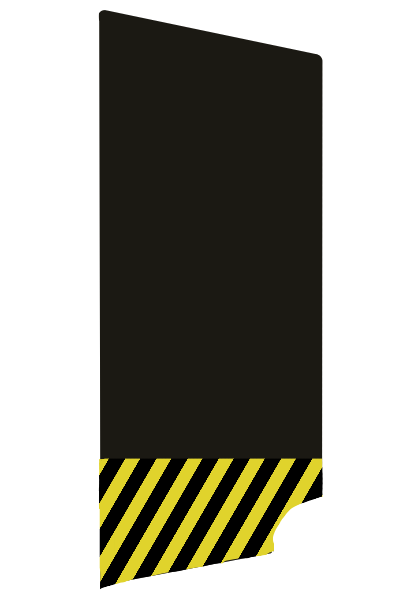
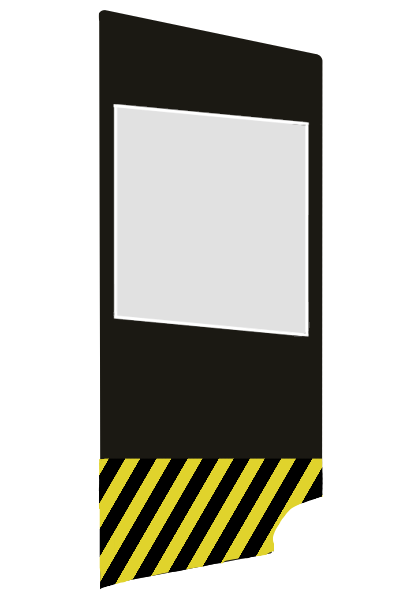
Nestihlo se vše, ale je tam logika celé hry.

Changed region(s): [[0.27, 0.15, 0.78, 0.57]]

diff --git a/FNASPS.py b/FNASPS.py
@@ -1,4 +1,4 @@
-import sys, pygame, os, random, time, math, anima as e
+import sys, pygame,anima as e
 from pygame import *
 
 def terminace():
@@ -9,8 +9,6 @@ def KmFnce():
     KmLt = []
     tett = []
     for t in xList:
-        #print(str(xList.index(t)))
-        #w = textik(str(xList.index(t)), mensi_text_font, (255,255,255), t, t)
         #Pro lokaci
         if xList.index(t) % 2 == 0:
             r = t
@@ -22,9 +20,6 @@ def KmFnce():
             r = t
             tett.append(r)
     return KmLt, tett
-
-def flip(img,boolean=True):
-    return pygame.transform.flip(img,boolean,False)
 
 hodiny = pygame.time.Clock()
 pygame.init()
@@ -68,17 +63,32 @@ Ckamka8 = pygame.image.load('MainMenu/K8.png')
 Ckamka9 = pygame.image.load('MainMenu/K9.png')
 Ckamka = [Ckamka0,Ckamka1,Ckamka2,Ckamka3,Ckamka4,Ckamka5,Ckamka6,Ckamka7,Ckamka8,Ckamka9]
 
-bb = ["", "", "", "", "", 5, 6, 7, 8, ""]
-kk = [0, 1, 2, "", 4, 5, 6, "", "", ""]
+Br9 = pygame.image.load('MainMenu/hwBr.png')
+Br5 = pygame.image.load('MainMenu/hwBr.png')
+Br8 = pygame.image.load('MainMenu/hwBr.png')
+Br7 = pygame.image.load('MainMenu/hwBr.png')
+Br6 = pygame.image.load('MainMenu/hwBr.png')
+
+BrO = pygame.image.load('MainMenu/SvBr.png')
+HoO = pygame.image.load('MainMenu/SvHo.png')
+FiO = pygame.image.load('MainMenu/SvFi.png')
+#3 5 2
+#8 1 7 2
+#7 5 3 5 2 6
+bb = ["", "", "", "", "", Br5, Br6, Br7, Br8, ""]
+hh = ["", "", "", "", "", "", "", "", "", ""]
 jj = ["", "", "", "", "", "", "", "", "", ""]
 ff = ["", "", "", "", "", "", "", "", "", ""]
-
-
-Br9 = pygame.image.load('MainMenu/pg.png')
-Br5 = pygame.image.load('MainMenu/pg.png')
-Br8 = pygame.image.load('MainMenu/pg.png')
-Br7 = pygame.image.load('MainMenu/pg.png')
-Br6 = pygame.image.load('MainMenu/pg.png')
+balding = e.animatronik([9,5,8,7,6,20])
+ho = e.animatronik([7,5,3,5,2,6,20])
+fl = e.animatronik([8,1,7,2,20])
+bjump = 0
+hj = 0
+fj = 0
+jj = 0
+bald = 0
+fq = 0
+hq = 0
 
 BtKm = pygame.image.load('MainMenu/KmBt.png')
 #screen.blit(pygame.transform.scale(pic, (500, 500)), (0, 0))
@@ -94,7 +104,10 @@ pygame.display.set_icon(Ikonka)
 
 KameStat = pygame.image.load('MainMenu/static.gif')
 KameStat = pygame.transform.scale(KameStat, (OknoSirka, OknoVyska))
+Sn = pygame.transform.scale(Sn,  (810, 1000))
 
+
+kill = ""
 #Kolikátá noc
 PNoc = 0
 #Pro správné počítaní délky noci
@@ -107,6 +120,7 @@ IntermiseBool = False
 GameBool = False
 #Bude vráceno animatroniky
 GameOver = False
+Lose = False
 Win = False
 sipecky_X = 120
 sipecky_Y = 630
@@ -141,9 +155,6 @@ while True:
             else:
                 sipecky_Y = 648
             
-            #print(my)
-            #B1 = pygame.draw.rect(screen, (255,0,0), [130, 620, 500, 100], -1)
-            #B2 = pygame.draw.rect(screen, (255,0,0), [130, 730, 500, 100], -1)
             B1 = Rect(130, 620, 500, 100)
             B2 = Rect(130, 730, 500, 100)
             if B1.collidepoint((mx, my)):
@@ -177,7 +188,7 @@ while True:
                         else:
                             stage_sipecky = 0                       
             
-            screen.blit(Sn, (OknoSirka / 2,0))
+            screen.blit(Sn, (OknoSirka - 780,0))
             screen.blit(Sw, (0,0))
             screen.blit(Sq, (0,0))
             
@@ -195,7 +206,7 @@ while True:
             textik("V 0.01", text_font, (255,255,255), 60, OknoVyska - 100)
             textik("© Patron Service, Poland", text_font, (255,255,255), OknoSirka - 650, OknoVyska - 100)  
             pygame.display.update()
-            hodiny.tick(60)
+            hodiny.tick(40)
 
 
     # -------- Noviny na začítku hry -------- #
@@ -235,7 +246,7 @@ while True:
                             PNoc = 1
 
                 pygame.display.update()
-                hodiny.tick(60)
+                hodiny.tick(40)
         else:
             IntermiseBool = False
             GameBool = True 
@@ -257,7 +268,6 @@ while True:
         BoolPG = True
         klik = False
     
-        jumpsc = 0
         BoolSWKamera = False
         #Logika rozmístění a přepínání kamer
         MPoz = OknoVyska - 540 #530
@@ -276,16 +286,13 @@ while True:
         zdroj = 1
         nace = 0
         #9 5 8 7 6
-        balding = e.animatronik([9,5,8,7,6,0])
-        bald = 0
+
         #hugerCat = e.animatronik(11, 11, 8000,False,)
         #flaska = e.animatronik(  11, 11, 8000,False,)
         #zakar = e.animatronik(   11, 11, 8000,False,)
         while running:
             if GameOver:
-                Win = True
-                running = False
-                GameBool = False
+                terminace()
                 
             rect = Rect(mx, my, 1, 1)
             mx, my = pygame.mouse.get_pos()
@@ -308,16 +315,49 @@ while True:
             else:
                 xt = ""
                 
+            
+                
             if nace < Vteriny:
                 Proc = round(Proc - odecet * zdroj, 1)
                 nace += 1
+                bald += 1
+                hq += 1
+                fq += 1
+                bjump, bald = balding.pohyb(bald, BoolRD, bjump)
+                hj, hq = ho.pohyb(hq, BoolRD, hj)
+                fj, fq = fl.pohyb(fq, BoolLD, fj)
+                
             #Aby jsme nešli až moc daleko s power drainingem
             zdroj = 1
             #Rect/hitboxy kamery (mimo kvůli vypínání a zapínání kamery
             KM = Rect(350, OknoVyska - 140, OknoSirka-700, 100)
             #KM = pygame.draw.rect(screen, (0,0,255), [350, OknoVyska - 100, OknoSirka-700, 100], 4)
+            
+            if bjump > 90:
+                kill = "Brian"
+                Lose = True
+                running = False
+                GameBool = False
+            elif hj > 90:
+                kill = "Honza"
+                Lose = True
+                running = False
+                GameBool = False
+            elif fj > 90:
+                kill = "Filip"
+                Lose = True
+                running = False
+                GameBool = False
+            elif hj > 90:
+                kill = "Zakar"
+                Lose = True
+                running = False
+                GameBool = False
+            
+                
             if not BoolKm:
                 screen.blit(OF, (dX - 210,0))
+                                    
                 #Rect/hitboxy tlačítek
                 LD = Rect(dX + -76, 330, 100, 120)
                 LL = Rect(dX + -76, 480, 100, 120)
@@ -331,9 +371,9 @@ while True:
                 PS = Rect(OknoSirka - 200, 0, 200, OknoVyska)
             
                 if PS.collidepoint((mx, my)) and dX >= -200:
-                    dX -= 10
+                    dX -= 20
                 elif LS.collidepoint((mx, my)) and dX <= 200:
-                    dX += 10
+                    dX += 20
                     
                 #Dalo by se dát and místo více if, né když stačí ale ověřit jednu proměnnou
                 if klik:
@@ -348,27 +388,33 @@ while True:
                 
                 if BoolLL == True:
                     screen.blit(Sl, (dX - 52, 216))
-                    #SvetloL = pygame.draw.rect(screen, (255,255,255), [dX + 100, 200, 200, 600], 0)
-                    zdroj += 1
-                if BoolLD == True:
-                    screen.blit(Sdl, (dX - 52, 216))
-                    zdroj += 1
                 if BoolRL == True:
                     screen.blit(Sr, (dX + OknoSirka - 416, 230))
-                    #SvetloR = pygame.draw.rect(screen, (255,255,255), [dX + OknoSirka - 250, 200, 200, 600], 0)
-                    zdroj += 1
+
+                if bjump == 20 and BoolRL:
+                    screen.blit(BrO, (dX + OknoSirka - 416, 230))
+                if hj == 20 and BoolRL:
+                    screen.blit(HoO, (dX + OknoSirka - 416, 230))
+                if fj == 20 and BoolLL:
+                    screen.blit(FiO, (dX - 52, 216))
+                
+                
                 if BoolRD == True:
-                    screen.blit(Sdr, (dX + OknoSirka - 416, 230))
-                    zdroj += 1
-                    
-                    
+                    screen.blit(Sdr, (dX + OknoSirka - 416, 230)) 
+                if BoolLD == True:
+                    screen.blit(Sdl, (dX - 52, 216))
+
+    
             # -------- Na kameře -------- #
             else:
                 #Vykreslení záznamu kamery live WOWOWOWOWO
+                zdroj += 1
                 screen.blit(Ckamka[kamka], (0,0))
                 pygame.draw.rect(screen, (255,255,255), [40, 40, OknoSirka - 60, OknoVyska - 60], 2)
-              #  if Br + jmpsc = 
-                screen.blit(Sw, (0,0))
+                
+                
+                if bjump == kamka:
+                    screen.blit(bb[kamka], (OknoSirka / 2,OknoVyska / 2))
                 
                 if BoolPG:
                     #Phone Guy
@@ -378,11 +424,6 @@ while True:
                         BoolPG = False
                     #1680
                 
-                
-                
-                #################
-                #if jumpsc == kamka:
-                #    screen.blit(bb[jumpsc], (0,0))
                        
                 if (Vteriny - PrepMaediator) < 0.5:
                     screen.blit(KameStat, (0,0))
@@ -391,7 +432,7 @@ while True:
                     for r in KmLt:
                         if rect.colliderect(r) and klik and BoolSWKamera == False and kamka != KmLt.index(r):
                             kamka = KmLt.index(r)
-                            print(kamka)
+                            #print(kamka)
                             #Ckamka = Ckamka + str(kamka)
                             PrepMaediator = Vteriny
                         elif kamka == KmLt.index(r):
@@ -420,13 +461,21 @@ while True:
                 else:
                     Sw = St
 
-                
+        
+            if BoolRD == True:
+                zdroj += 1            
+            if BoolLD == True:
+                zdroj += 1
+            if BoolLL == True:
+                zdroj += 1            
+            if BoolRL == True:
+                zdroj += 1   
             screen.blit(BtKm, (350, OknoVyska - 140))
             textik(str(Rano) + "AM", vetsi_text_font, (255,255,255), OknoSirka - 250, 40)
             textik(str(Minu) + ":" + xt + str(strtVteriny), mensi_text_font, (200,200,200), OknoSirka - 140, 120)
             textik("Noc " + str(PNoc), text_font, (255,255,255), OknoSirka - 200, 160)
             textik("Energie:" + str(Proc) + "%", text_font, (255,255,255), 60, 60)  
-            textik("Využití: nemá lol", mensi_text_font, (255,255,255), 60, 120)
+            textik("Využití:" + str(zdroj), mensi_text_font, (255,255,255), 60, 120)
             
             # ------- Delay pro kameru -------- #
             if klik and (Vteriny - Mediator) > 0.4:
@@ -449,14 +498,10 @@ while True:
                 if event.type == KEYDOWN: #Když držíme klávesu
                     if event.key == K_ESCAPE:
                         terminace()
-                    if event.key == pygame.K_UP or event.key == pygame.K_DOWN:
-                        bald += 1
-                        jumpsc = balding.pohyb(bald, BoolRD)
-                        print(jumpsc)
                         
                         
             pygame.display.update()
-            hodiny.tick(60)
+            hodiny.tick(40)
         
     # -------- Noviny na začítku hry -------- #
     if Win:
@@ -488,7 +533,27 @@ while True:
                         PNoc = 1
 
                 pygame.display.update()
-                hodiny.tick(60)
+                hodiny.tick(40)
+        else:
+            IntermiseBool = False
+            GameBool = True
+            
+    if Lose:
+        running = True
+        while running:
+            #Průhlednost
+            screen.fill((0,0,0))
+            textik("Zabil tebe " + kill + "!!!!", vetsi_text_font, (255,255,255), OknoSirka/2 - 400, OknoVyska /2)
+            textik("Esc to escape this", mensi_text_font, (255,255,255), OknoSirka/2 - 400, OknoVyska /2 + 200)
+            for event in pygame.event.get():
+                if event.type == QUIT:
+                    terminace()
+                elif event.type == pygame.KEYDOWN:
+                    if event.key == K_ESCAPE:
+                        terminace()
+
+                pygame.display.update()
+                hodiny.tick(40)
         else:
             IntermiseBool = False
             GameBool = True 

diff --git a/anima.py b/anima.py
@@ -1,4 +1,4 @@
-import math, pygame, os
+import math, pygame, os, random
 from pygame.locals import *
 
 class animatronik(object):
@@ -6,14 +6,27 @@ class animatronik(object):
         #self.dostupnost = ex
         self.cesta = c
         self.pozice = self.cesta[0]
-        self.start_pozice = self.cesta[0]
-    def pohyb(self, pozica, muzeDovnitr):
+        self.start_pozice = 1
+    def pohyb(self, pozica, NemuzeDovnitr, bjump):
+        bald = pozica
+        aaaa = random.choice([0, 1])
+        bbbb = random.choice([0, 1])
         if pozica + 1 <= len(self.cesta):
-            pozica = self.cesta[pozica]
-            #print(len(self.cesta))
-            #print (pozica)
+            if aaaa == 0:
+                if bbbb == 0:
+                    pozica = self.cesta[pozica]
+            else:
+                bald -= 1
+                pozica = self.cesta[pozica]
+        elif NemuzeDovnitr:
+            bald = 1
+            pozica = self.cesta[self.start_pozice] 
         else:
-            pozica = 0
+            pozica = 100
+            bald = 100
+        return pozica, bald
+    def naZpatek(self, pozica):
+        pozica = self.cesta[1]
         return pozica
         
 def flip(img,boolean=True):
